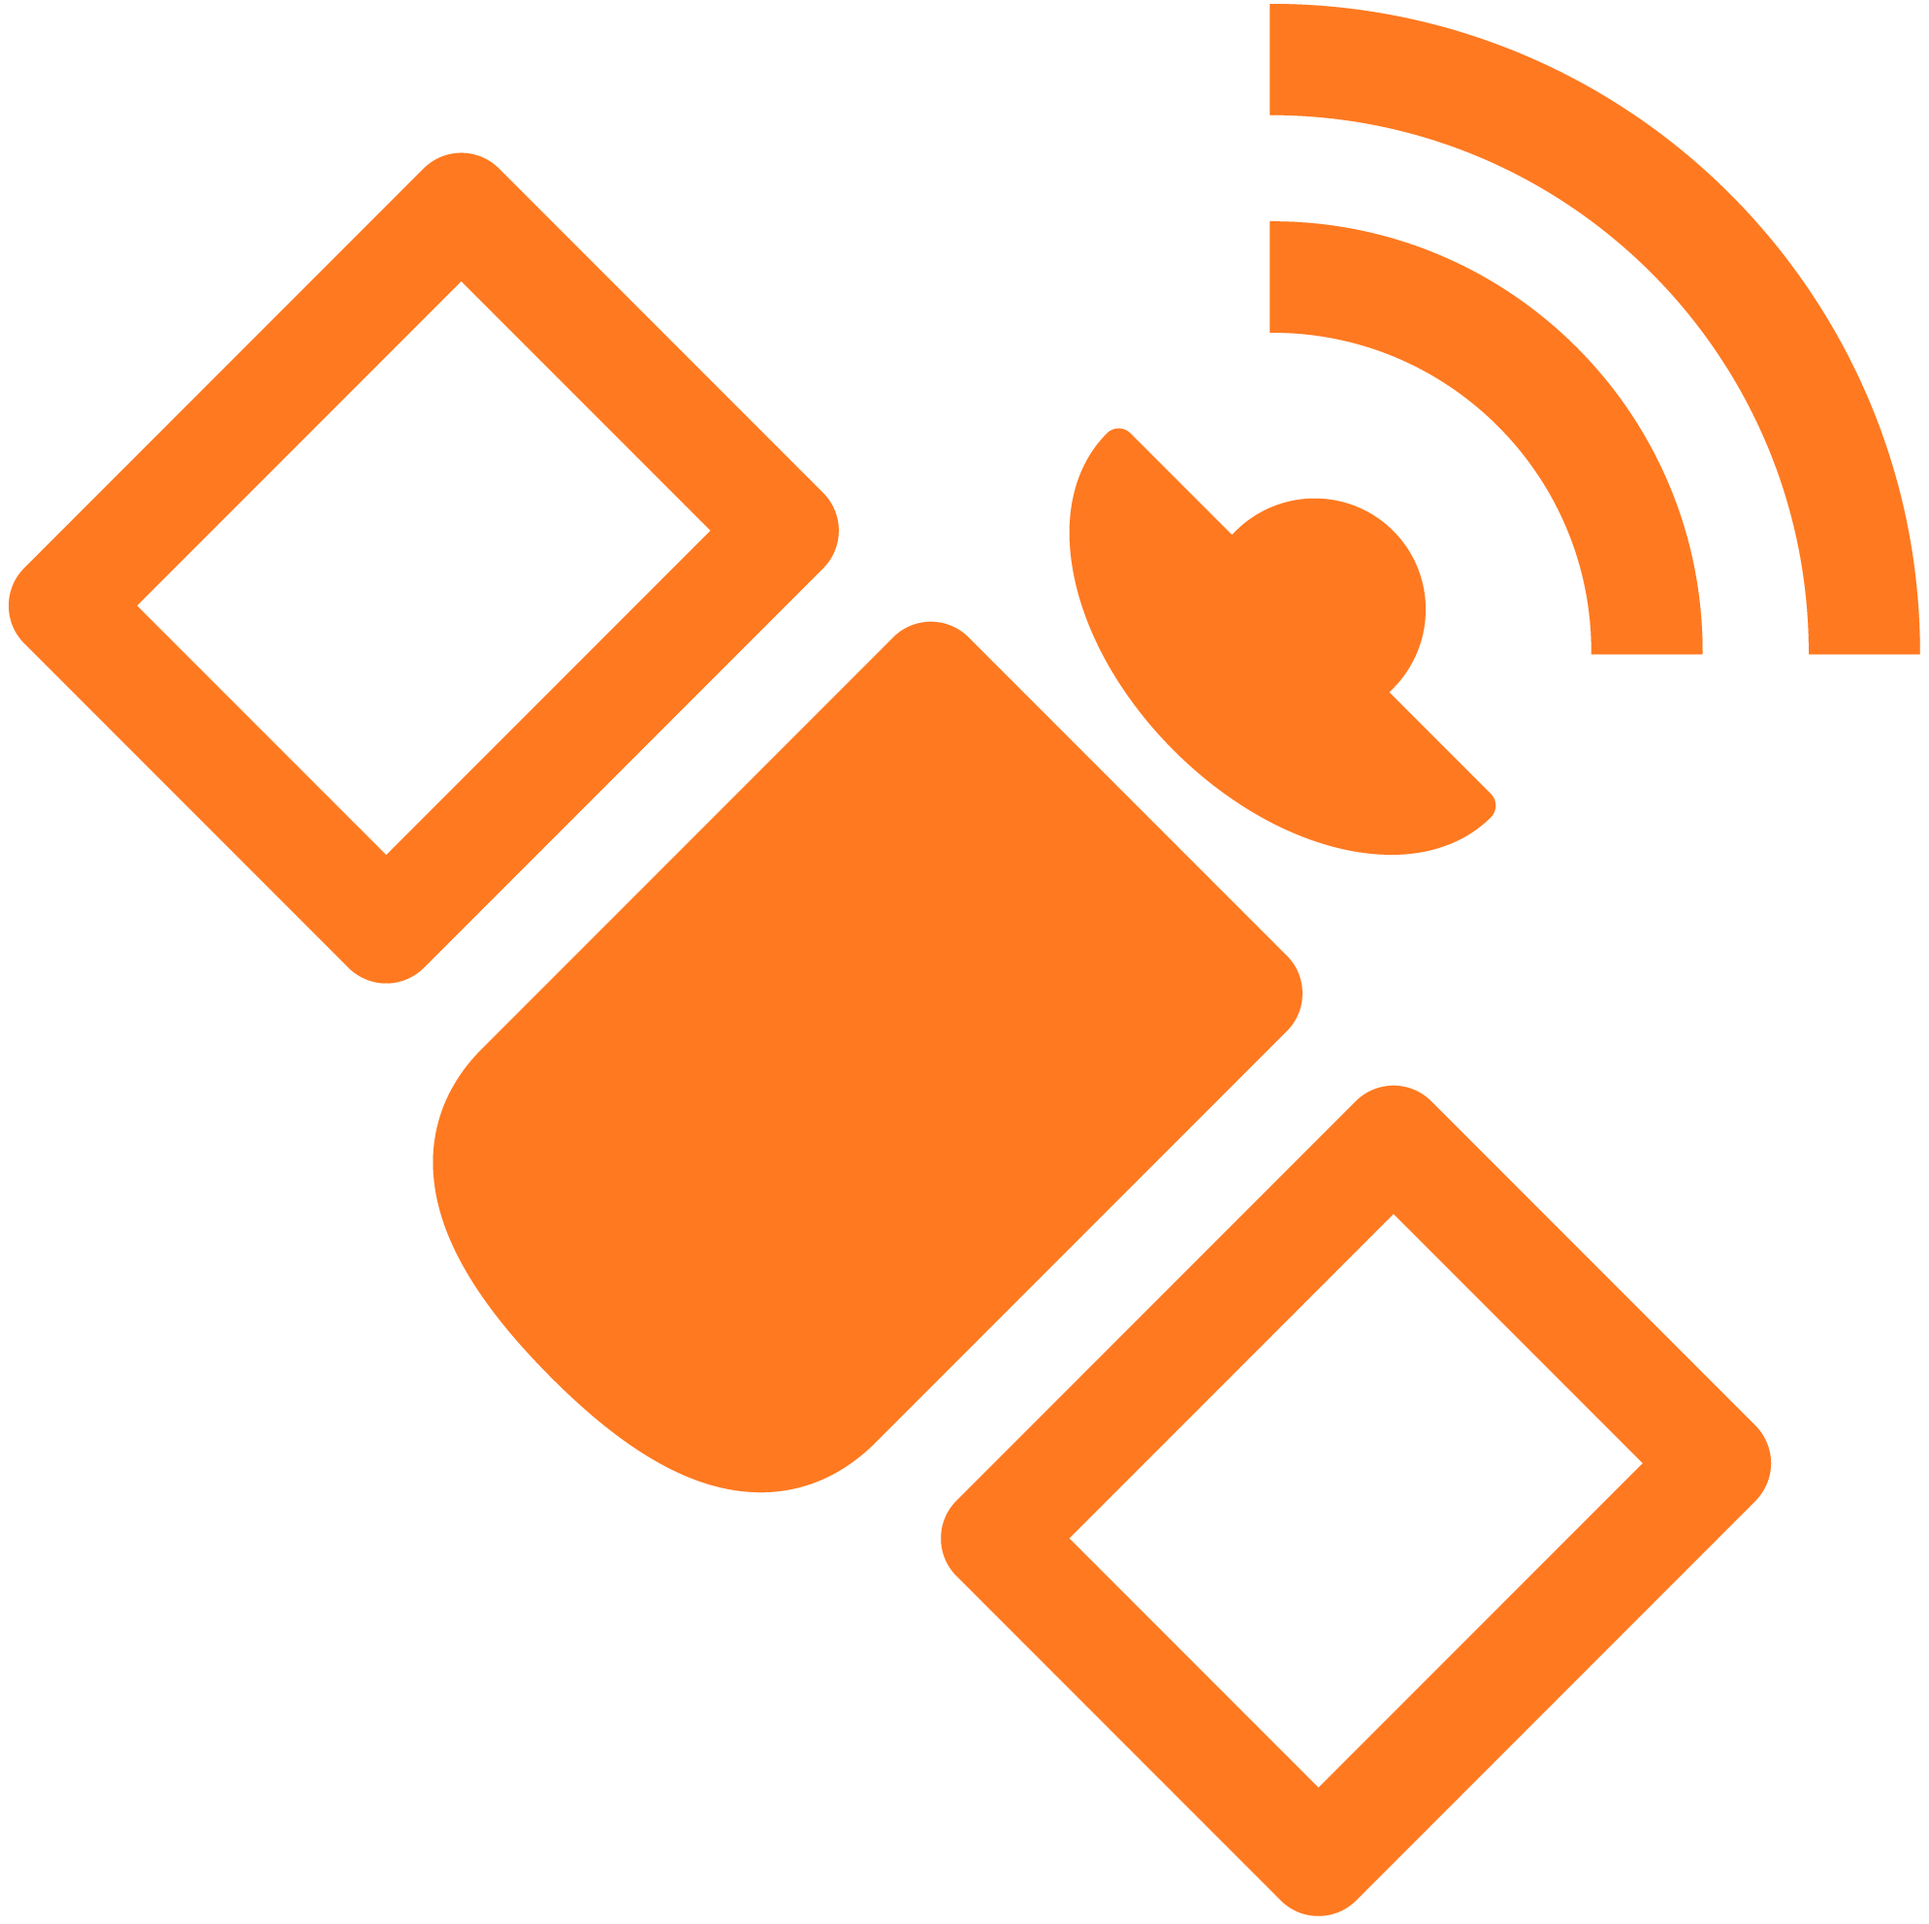
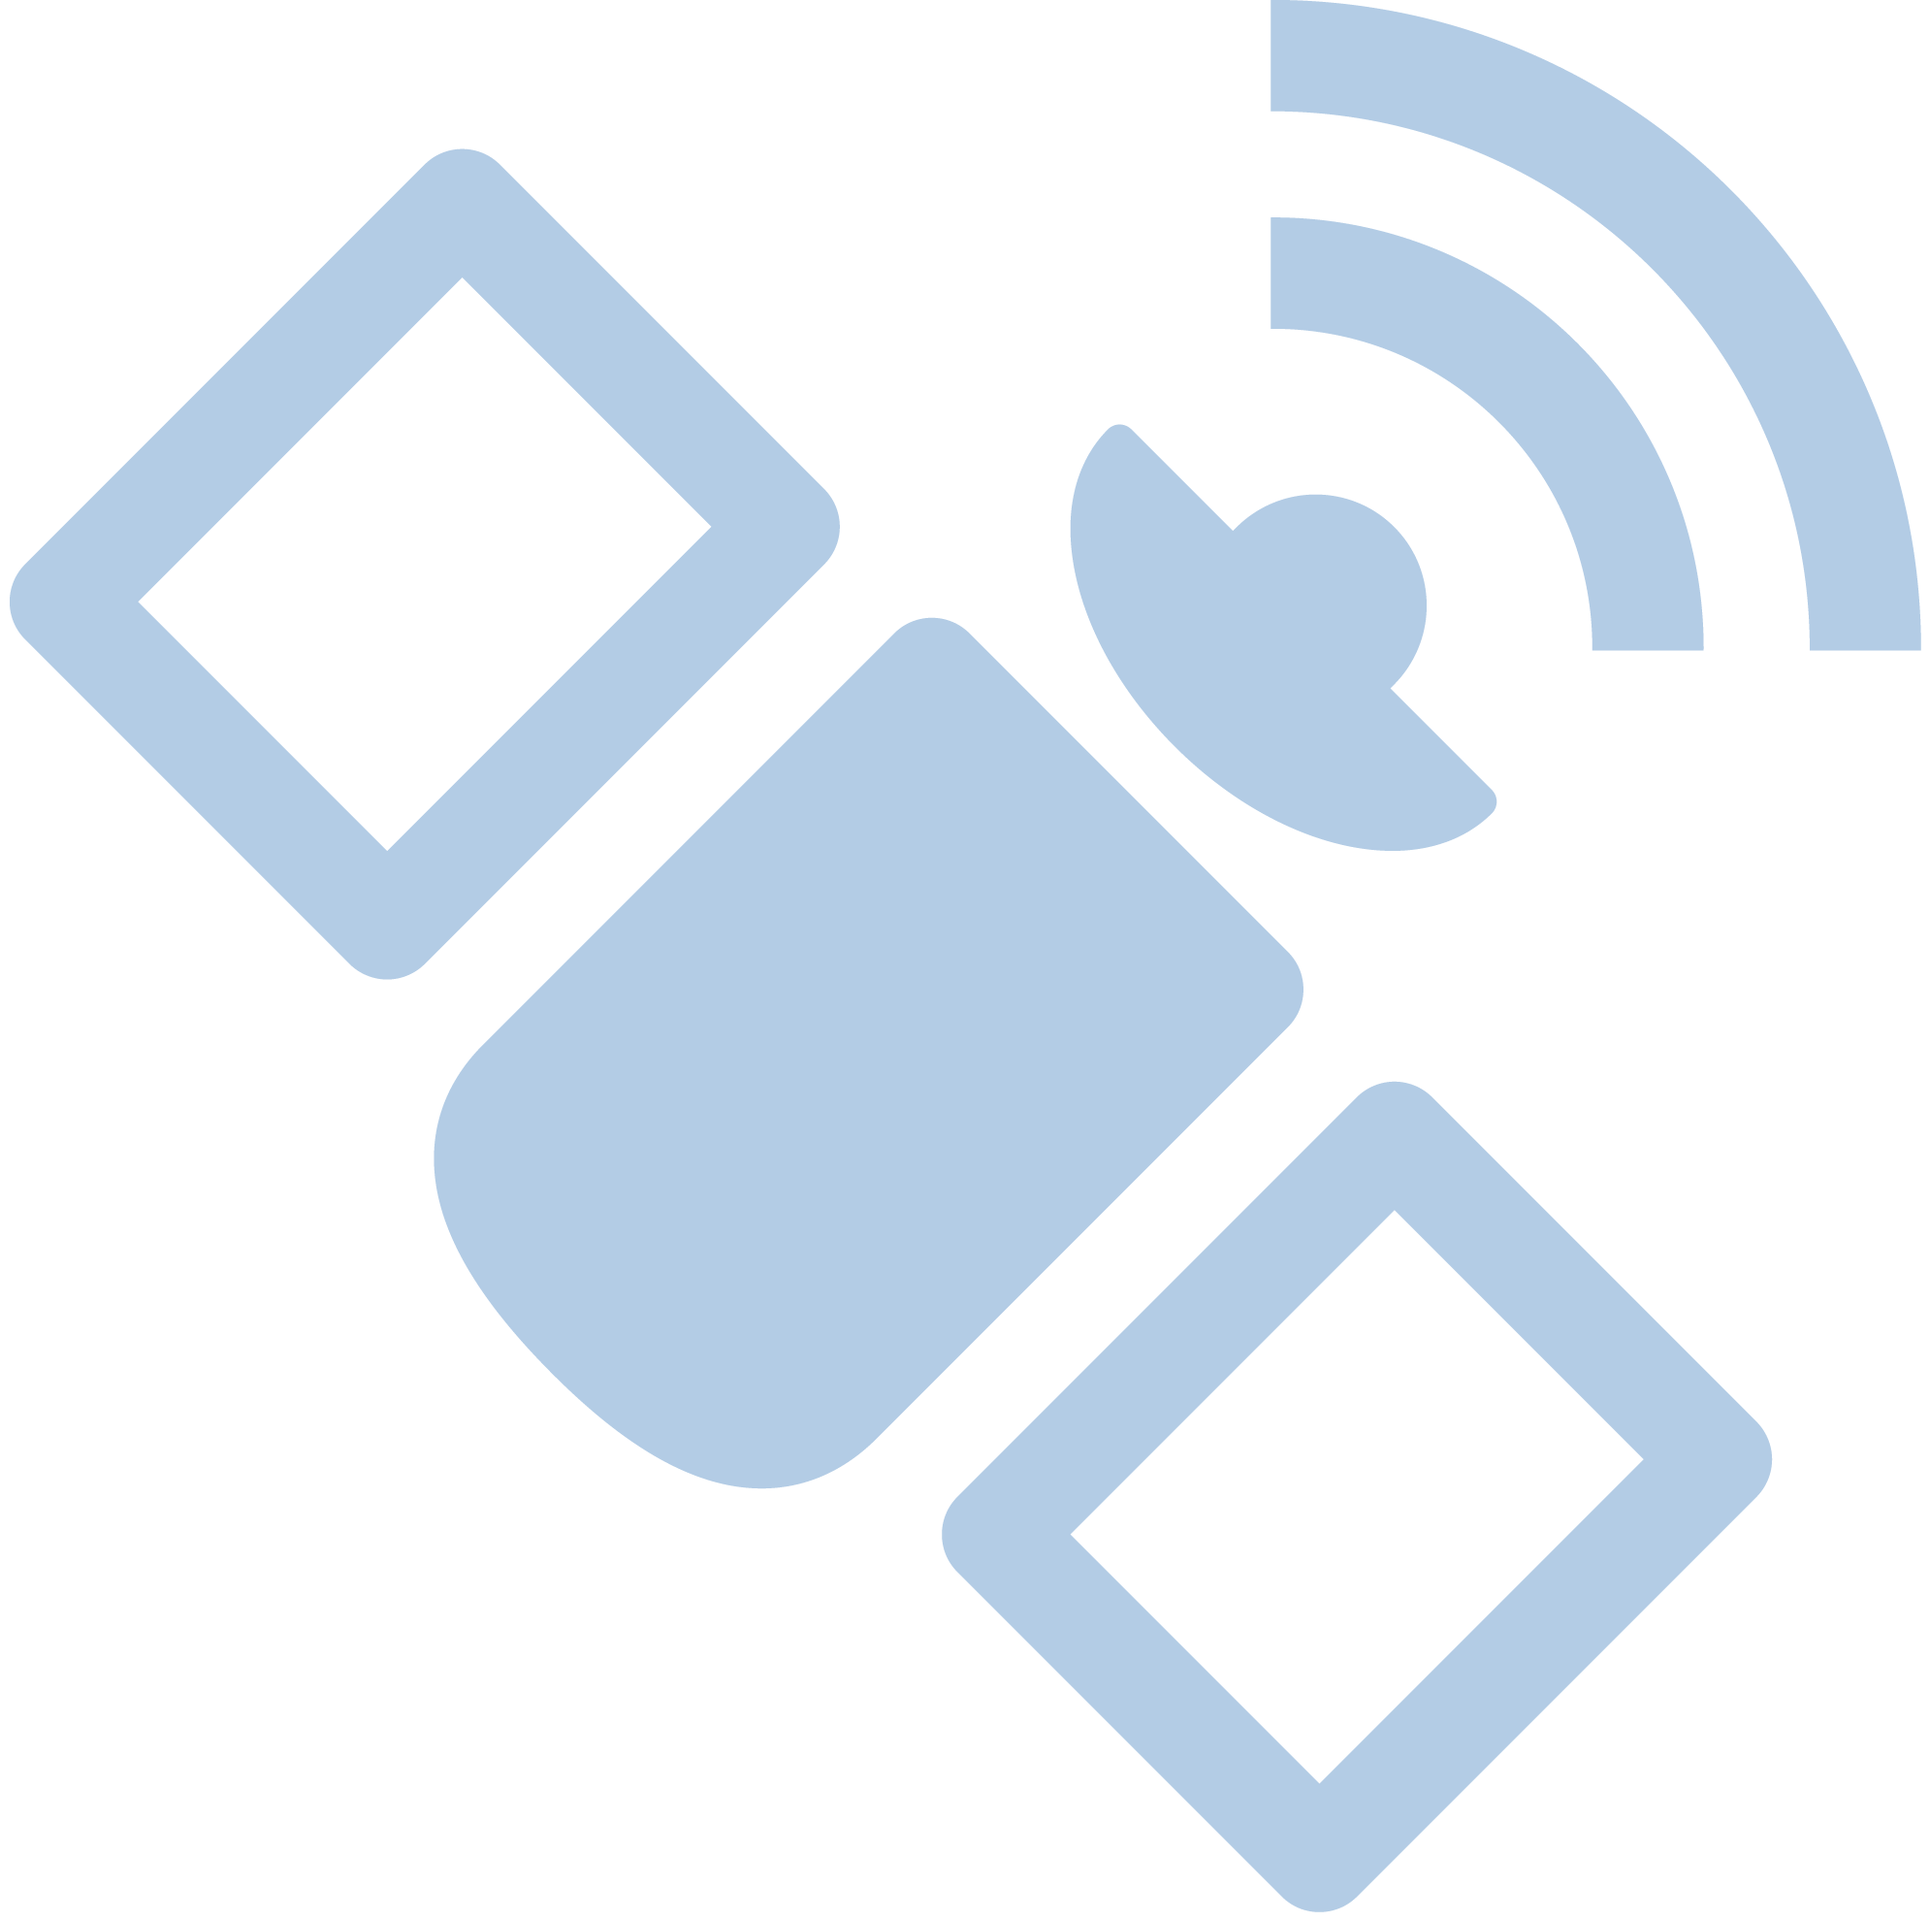
commit 4

diff --git a/css/stylesheet.css b/css/stylesheet.css
@@ -1,7 +1,7 @@
 /* ~~~~ SITE STYLES and LAYOUT ~~~~ */
 
 html {
-  background-color: #22170b;
+  background-color: #1a1a1a;
   background-image:
   radial-gradient(white, rgba(255,255,255,.2) 2px, transparent 10px),
   radial-gradient(white, rgba(255,255,255,.15) 1px, transparent 5px),
@@ -33,15 +33,21 @@ body {
 }
 
 a, a:link, a:visited {
-  color: #cc5200;
+  color: #79a6d2;
+  font-weight: bold;
+  text-decoration: none;
+  display: block;
+}
+
+a:hover {
+  color: #b3cce5;
   font-weight: bold;
   text-decoration: none;
 }
 
-a:hover {
-  color: #ff7920;
-  font-weight: bold;
-  text-decoration: none;
+
+nav a, nav a:link, nav a:visited, nav a:hover {
+  display: block;
 }
 
 .intro {
@@ -59,6 +65,7 @@ a:hover {
 .headerwrap {
   margin: 3em auto;
   width: 86%;
+  max-width: 800px;
   text-align: center;
 }
 
@@ -90,9 +97,10 @@ a:hover {
 
 main, nav, footer {
   width: 86%;
-  background-color: #24486c;
+  max-width: 800px;
+  background-color: #4d4d4d;
   box-sizing: border-box;
-  border-radius: 13px;
+  
 }
 
 main {
@@ -167,7 +175,7 @@ footer {
   /* ~~~~ SITE STYLES and LAYOUT ~~~~ */
   
   html {
-    background-color: #22170B;
+    background-color: #1a1a1a;
     background-image:
     radial-gradient(white, rgba(255,255,255,.2) 2px, transparent 10px),
     radial-gradient(white, rgba(255,255,255,.15) 1px, transparent 5px),
@@ -193,6 +201,7 @@ footer {
   .spaceshipwrap2 {
     margin: 0 auto;
     width: 75%;
+    max-width: 800px;
     text-align: right;
   }
 
@@ -252,7 +261,7 @@ footer {
 
   main {
     margin: 0 auto;
-    padding: 25px 90px 25px 25px;
+    padding: 25px 100px 25px 25px;
     font-size: 1em;
     line-height: 1.4em;
   }
@@ -264,8 +273,6 @@ footer {
   .social li {
     padding: 0 0.7em 0 0;
   }
-
-
 
 
 }

diff --git a/index.html b/index.html
@@ -14,9 +14,13 @@
 
     <header>
       <div class="headerwrap">
+        
         <p class="smallhead">Hi, I'm</p>
+
         <p class="bighead">Rebecca</p>
+        
         <img src="images/spaceship2.png" class="spaceship2">
+
       </div>
     </header>
 
@@ -53,7 +57,7 @@
           <a href="blog/"><img src="images/navblog.png" alt="observatory icon">Blog</a>
         </li>
         <li>
-          <img src="images/navcontact.png" alt="satellite icon"><a href="contact/">Contact</a>
+          <a href="contact/"><img src="images/navcontact.png" alt="satellite icon">Contact</a>
         </li>
       </ul>
     </nav>
